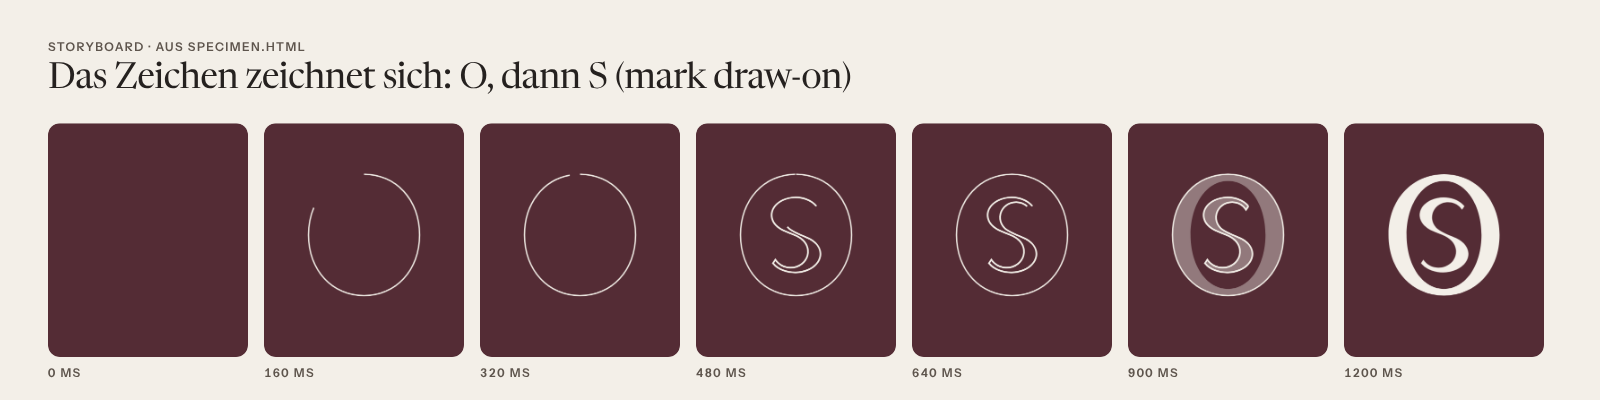
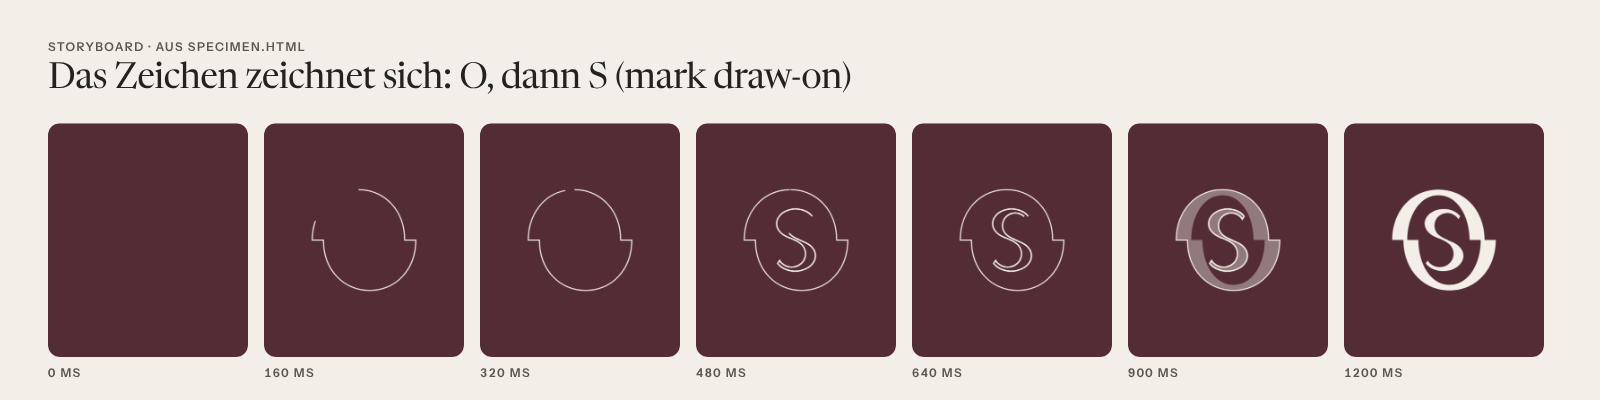
SOMA brand N8: applications rebuilt against symbol v1.2; docs + landing motion in progress (checkpoint, not deployed)
Claude-Session: https://claude.ai/code/session_01TQr1HnsQyCCMSdmT7pJpAS

diff --git a/brand/applications/motion/specimen.html b/brand/applications/motion/specimen.html
@@ -69,7 +69,7 @@ html.rm *,html.rm *::before,html.rm *::after{animation-duration:1ms!important;an
   <figure><div class="stage"><div class="arch-rise"><img src="../../photography/v2-previews/L03-philosophy.jpg" alt=""></div>
     <div class="place place-l" style="color:#5E554D">Flur · Berlin-Schöneberg · 18:40</div></div>
     <figcaption class="cap"><b>1 · Bogen-Aufgang.</b> Maske öffnet von unten (640 ms, arrive), Bogen steigt 16 px, Foto setzt sich von 1,04 auf 1 (900 ms, settle). Ortszeile folgt nach 480 ms.</figcaption></figure>
-  <figure><div class="stage s-stage"><svg class="s-draw" viewBox="-70 -110 804 1005"><path class="o-f" d="M332 0C521.24 0 664 150.23 664 362C664 573.77 521.24 724 332 724C142.76 724 0 573.77 0 362C0 150.23 142.76 0 332 0ZM108 362C108 535.88 197.6 684 332 684C466.4 684 556 535.88 556 362C556 188.12 466.4 40 332 40C197.6 40 108 188.12 108 362Z"/><path class="s-f" d="M453.78 190.69C438.07 170.96 416 157.19 392.42 148.76C348.78 133.17 298.13 134.43 255.63 153.14C222.23 167.85 191.14 196.09 186.6 234.09C185.95 239.56 185.88 245.1 186.4 250.59C189.66 284.7 214.88 311.47 243.38 327.97C286.12 352.71 340.08 359.32 375.66 395.8C379.74 399.99 383.49 404.51 386.84 409.3C390.93 415.14 394.41 421.38 397.11 427.99C400.29 435.77 402.38 444 403.25 452.37C404.42 463.49 403.44 474.8 400.4 485.56C397.63 495.37 393.17 504.69 387.35 513.06C381.88 520.92 375.23 527.94 367.75 533.9C326.93 566.4 264.62 564.91 225.76 529.92C219.1 523.92 213.3 517.05 208.48 509.48L194.07 530.82C210.67 551.39 233.84 565.7 258.56 574.51C304.97 591.07 358.85 589.82 404.13 570.15C438.54 555.2 471.01 526.82 477.01 488C477.9 482.19 478.16 476.29 477.77 470.43C475.46 436.17 451.44 408.19 423.04 391.11C410.47 383.56 396.77 377.76 383.31 371.98C360.52 362.19 337.42 353.05 315.79 340.8C306.97 335.8 298.2 330.55 290.59 323.8C274.49 309.49 263.63 289.65 260.94 268.23C259.58 257.4 260.3 246.34 263.04 235.78C265.57 226.02 269.81 216.72 275.47 208.37C281.04 200.15 287.97 192.87 295.85 186.83C332.55 158.68 386.69 160.25 421.49 190.81C428.48 196.95 434.48 204.11 439.36 212.03Z"/><path class="o-o" pathLength="1" d="M332 0C521.24 0 664 150.23 664 362C664 573.77 521.24 724 332 724C142.76 724 0 573.77 0 362C0 150.23 142.76 0 332 0Z"/><path class="s-o" pathLength="1" d="M453.78 190.69C438.07 170.96 416 157.19 392.42 148.76C348.78 133.17 298.13 134.43 255.63 153.14C222.23 167.85 191.14 196.09 186.6 234.09C185.95 239.56 185.88 245.1 186.4 250.59C189.66 284.7 214.88 311.47 243.38 327.97C286.12 352.71 340.08 359.32 375.66 395.8C379.74 399.99 383.49 404.51 386.84 409.3C390.93 415.14 394.41 421.38 397.11 427.99C400.29 435.77 402.38 444 403.25 452.37C404.42 463.49 403.44 474.8 400.4 485.56C397.63 495.37 393.17 504.69 387.35 513.06C381.88 520.92 375.23 527.94 367.75 533.9C326.93 566.4 264.62 564.91 225.76 529.92C219.1 523.92 213.3 517.05 208.48 509.48L194.07 530.82C210.67 551.39 233.84 565.7 258.56 574.51C304.97 591.07 358.85 589.82 404.13 570.15C438.54 555.2 471.01 526.82 477.01 488C477.9 482.19 478.16 476.29 477.77 470.43C475.46 436.17 451.44 408.19 423.04 391.11C410.47 383.56 396.77 377.76 383.31 371.98C360.52 362.19 337.42 353.05 315.79 340.8C306.97 335.8 298.2 330.55 290.59 323.8C274.49 309.49 263.63 289.65 260.94 268.23C259.58 257.4 260.3 246.34 263.04 235.78C265.57 226.02 269.81 216.72 275.47 208.37C281.04 200.15 287.97 192.87 295.85 186.83C332.55 158.68 386.69 160.25 421.49 190.81C428.48 196.95 434.48 204.11 439.36 212.03Z"/></svg></div>
+  <figure><div class="stage s-stage"><svg class="s-draw" viewBox="-111.60000000000002 -242.5 967.2 1209"><path class="o-f" d="M332 0C521.24 0 664 150.23 664 362L744 362C744 573.77 601.24 724 412 724C222.76 724 80 573.77 80 362L0 362C0 150.23 142.76 0 332 0ZM556 362C556 188.12 466.4 40 332 40C197.6 40 108 188.12 108 362L188 362C188 535.88 277.6 684 412 684C546.4 684 636 535.88 636 362Z"/><path class="s-f" d="M488.38 191.45C473.37 171.81 452.28 158.1 429.74 149.72C388.03 134.19 339.63 135.45 299.01 154.07C267.09 168.71 237.37 196.84 233.04 234.66C232.41 240.11 232.35 245.63 232.85 251.09C235.96 285.05 260.07 311.7 287.3 328.12C328.15 352.75 379.72 359.33 413.73 395.65C417.63 399.82 421.21 404.32 424.41 409.09C428.32 414.9 431.65 421.12 434.23 427.69C437.26 435.44 439.26 443.64 440.1 451.97C441.22 463.03 440.28 474.29 437.37 485C434.73 494.78 430.46 504.05 424.9 512.38C419.67 520.21 413.32 527.2 406.16 533.13C367.15 565.49 307.61 564.01 270.46 529.17C264.1 523.2 258.55 516.35 253.95 508.82L240.18 530.06C256.04 550.54 278.19 564.79 301.81 573.57C346.17 590.05 397.66 588.81 440.94 569.22C473.82 554.34 504.86 526.08 510.58 487.43C511.44 481.66 511.69 475.78 511.31 469.95C509.11 435.84 486.15 407.98 459.01 390.98C446.99 383.46 433.9 377.69 421.04 371.94C399.26 362.19 377.18 353.09 356.51 340.89C348.08 335.92 339.69 330.69 332.43 323.97C317.03 309.73 306.66 289.98 304.08 268.64C302.78 257.87 303.47 246.85 306.09 236.34C308.51 226.62 312.57 217.37 317.97 209.06C323.3 200.87 329.92 193.62 337.45 187.61C372.53 159.59 424.27 161.15 457.53 191.58C464.21 197.69 469.94 204.82 474.61 212.69Z"/><path class="o-o" pathLength="1" d="M332 0C521.24 0 664 150.23 664 362L744 362C744 573.77 601.24 724 412 724C222.76 724 80 573.77 80 362L0 362C0 150.23 142.76 0 332 0Z"/><path class="s-o" pathLength="1" d="M488.38 191.45C473.37 171.81 452.28 158.1 429.74 149.72C388.03 134.19 339.63 135.45 299.01 154.07C267.09 168.71 237.37 196.84 233.04 234.66C232.41 240.11 232.35 245.63 232.85 251.09C235.96 285.05 260.07 311.7 287.3 328.12C328.15 352.75 379.72 359.33 413.73 395.65C417.63 399.82 421.21 404.32 424.41 409.09C428.32 414.9 431.65 421.12 434.23 427.69C437.26 435.44 439.26 443.64 440.1 451.97C441.22 463.03 440.28 474.29 437.37 485C434.73 494.78 430.46 504.05 424.9 512.38C419.67 520.21 413.32 527.2 406.16 533.13C367.15 565.49 307.61 564.01 270.46 529.17C264.1 523.2 258.55 516.35 253.95 508.82L240.18 530.06C256.04 550.54 278.19 564.79 301.81 573.57C346.17 590.05 397.66 588.81 440.94 569.22C473.82 554.34 504.86 526.08 510.58 487.43C511.44 481.66 511.69 475.78 511.31 469.95C509.11 435.84 486.15 407.98 459.01 390.98C446.99 383.46 433.9 377.69 421.04 371.94C399.26 362.19 377.18 353.09 356.51 340.89C348.08 335.92 339.69 330.69 332.43 323.97C317.03 309.73 306.66 289.98 304.08 268.64C302.78 257.87 303.47 246.85 306.09 236.34C308.51 226.62 312.57 217.37 317.97 209.06C323.3 200.87 329.92 193.62 337.45 187.61C372.53 159.59 424.27 161.15 457.53 191.58C464.21 197.69 469.94 204.82 474.61 212.69Z"/></svg></div>
     <figcaption class="cap"><b>2 · Das Zeichen zeichnet sich.</b> Die O-Kontur zieht (640 ms), die S-Kontur folgt ab 320 ms, dann erscheinen Ring und S als Fläche (220 ms) und die Linie geht. Nur Splash und Endframes; nie als Ladeanimation, nie in Schleife.</figcaption></figure>
   <figure><div class="stage"><div class="lock"><svg style="color:#25211F;display:block;width:420px;height:auto" class="wm"  aria-hidden="true" xmlns="http://www.w3.org/2000/svg" viewBox="0 -16.8 2796 731.2" role="img" aria-labelledby="t">
   <title id="t">SOMA</title>

diff --git a/src/components/landing/motion/scenes/seal.ts b/src/components/landing/motion/scenes/seal.ts
@@ -1,0 +1,67 @@
+import { attr, clamp01, isBelow, type MotionContext, type Stop } from "../frame";
+
+/** The brand sequence runs 0–1980 ms (spec § 4.10); `done` hands back to the static final frame after it. */
+const SEQUENCE_MS = 2300;
+
+/**
+ * 10 · SOMA, „O-Schluss“ (spec § 4.10, Appendix A).
+ * - Full tier, once ready: an Oxblood arch mask opens from the bottom centre (24cqw, crown at 40 %) to a square full
+ *   bleed over `entry 0 % → entry 60 %`, on the CSS view timeline where it exists, otherwise from `--lp-scene`.
+ *   Lite and none: the hard edge.
+ * - Full and lite: the brand sequence plays once when the band is ≥ 40 % in view (full: ≥ 60 %, i.e. the mask is
+ *   complete and no arch is visible): the mark draws on (the O traces from the left springline over the crown, the S
+ *   follows, both fill), the wordmark settles, the rule grows, the tagline and the German line arrive. CSS keyed on
+ *   `data-scene-state` (idle · active · done). Only a band the reader has not reached yet starts `idle`: a deep link
+ *   lands on the final frame. The CTAs never wait.
+ */
+export function startSeal(ctx: MotionContext): Stop {
+  const scene = document.querySelector<HTMLElement>('[data-scene="seal"]');
+  if (!scene) return () => {};
+  const stops: Stop[] = [];
+  const ready = scene.hasAttribute("data-scene-ready");
+  const mask = scene.querySelector<HTMLElement>('[data-arch-mask="seal"]');
+
+  if (ready && mask && !ctx.timeline) {
+    let p = 0;
+    let written = -1;
+    stops.push(
+      ctx.whileNear(scene, {
+        read() {
+          const r = scene.getBoundingClientRect();
+          p = r.height ? clamp01((window.innerHeight - r.top) / (0.6 * r.height)) : 1;
+        },
+        write() {
+          if (Math.abs(p - written) < 0.0005) return;
+          written = p;
+          mask.style.setProperty("--lp-scene", p.toFixed(4));
+        },
+      }),
+      () => mask.style.removeProperty("--lp-scene"),
+    );
+  }
+
+  if (isBelow(scene)) {
+    attr(scene, "data-scene-state", "idle");
+    const need = ready ? 0.6 : 0.4;
+    let timer = 0;
+    const io = new IntersectionObserver(
+      (entries) => {
+        if (entries[entries.length - 1].intersectionRatio < need - 0.001) return;
+        io.disconnect();
+        attr(scene, "data-scene-state", "active");
+        timer = window.setTimeout(() => attr(scene, "data-scene-state", "done"), SEQUENCE_MS);
+      },
+      { threshold: [0.4, 0.6] },
+    );
+    io.observe(scene);
+    stops.push(() => {
+      io.disconnect();
+      window.clearTimeout(timer);
+      scene.removeAttribute("data-scene-state");
+    });
+  }
+
+  return () => {
+    for (const s of stops) s();
+  };
+}

diff --git a/src/components/landing/motion/runtime.ts b/src/components/landing/motion/runtime.ts
@@ -1,0 +1,39 @@
+import { createContext, isBelow, type Stop } from "./frame";
+import { startReveals } from "./reveal";
+import { startDoorway } from "./scenes/doorway";
+import { startHero } from "./scenes/hero";
+import { startScreens } from "./scenes/screens";
+import { startStage } from "./scenes/stage";
+import { startTone } from "./scenes/tone";
+import { startWalkthrough } from "./scenes/walkthrough";
+import { startBand } from "./scenes/band";
+import { startSeal } from "./scenes/seal";
+import type { MotionTier } from "./tier";
+
+/** Scenes whose full-tier layout or mask changes the page: they upgrade only while still below the viewport. */
+const UPGRADABLE = '[data-scene="doorway"], [data-scene="walkthrough"], [data-scene="dusk"], [data-scene="stage"], [data-scene="dawn"], [data-scene="seal"]';
+
+/**
+ * The motion runtime (spec § 10.4: ≤ 12 KB gz, imported after idle or the first scroll, full and lite tiers only).
+ * 1. Upgrade (spec § 8.1, full tier only): every scene in UPGRADABLE whose top is still below the viewport gets
+ *    `data-scene-ready`, which switches on its pinned layout or scroll-linked mask. A scene already in or above the
+ *    viewport keeps its lite layout for this page view, so the upgrade never shifts what the reader sees.
+ * 2. Reveals and scenes start; each returns its teardown. All reads happen before all writes.
+ */
+export function startRuntime(tier: MotionTier): Stop {
+  performance.mark("lp-motion:start");
+  const ctx = createContext(tier);
+  const vh = window.innerHeight;
+  const ready = tier === "full" ? Array.from(document.querySelectorAll<HTMLElement>(UPGRADABLE)).filter((el) => isBelow(el, vh)) : [];
+  for (const el of ready) el.setAttribute("data-scene-ready", "");
+
+  for (const start of [startReveals, startHero, startDoorway, startWalkthrough, startTone, startStage, startScreens, startBand, startSeal]) {
+    ctx.onStop(start(ctx));
+  }
+  performance.measure("lp-motion:init", "lp-motion:start");
+
+  return () => {
+    ctx.stop();
+    for (const el of ready) el.removeAttribute("data-scene-ready");
+  };
+}

diff --git a/src/components/landing/motion/scenes/stage.ts b/src/components/landing/motion/scenes/stage.ts
@@ -27,9 +27,11 @@ export function startStage(ctx: MotionContext): Stop {
       const run = r.height - stage.offsetHeight;
       const p = run > 0 ? clamp01(-r.top / run) : 0;
       state = r.top > 0 ? "idle" : r.bottom > stage.offsetHeight + 1 ? "active" : "done";
-      const raw = Math.min(STEPS, Math.floor(p * STEPS) + 1);
-      if (raw > step && p >= (raw - 1) / STEPS + HYSTERESIS) step = raw;
-      else if (raw < step && p <= step - 1 - (STEPS * HYSTERESIS) / STEPS && p < (step - 1) / STEPS - HYSTERESIS) step = raw;
+      // the step p has passed by at least the hysteresis going down, and going up
+      const ahead = Math.min(STEPS, Math.floor((p - HYSTERESIS) * STEPS) + 1);
+      const behind = Math.min(STEPS, Math.floor((p + HYSTERESIS) * STEPS) + 1);
+      if (ahead > step) step = ahead;
+      else if (behind < step) step = Math.max(1, behind);
     },
     write() {
       attr(scene, "data-step", String(step));

diff --git a/brand/LOGO_USAGE.md b/brand/LOGO_USAGE.md
@@ -1,7 +1,11 @@
 # SOMA: Logo usage
 
-*Identity Designer · 1 Nov 2026 · v1.2 (Brand Audit 1: S im O, honest exploration record, favicon rim. Brand Audit 2: the Versatz, the seal for small iOS sizes)*
+*Identity Designer · 1 Nov 2026 · v1.2.1 (Brand Audit 1: S im O, honest exploration record, favicon rim. Brand Audit 2: the Versatz, the seal for small iOS sizes. Brand Audit 3: the seal's badge-genre figure corrected, the people-test protocol extended; documentation only)*
 *Masters: `brand/assets/logo/final/*.svg` (authoritative). Raster exports: `brand/assets/logo/final/png/`. Build: `node brand/tools/build-logo.mjs`.*
+
+> **Pending client actions** (open after Brand Audit 3). The human tests decide whether Originality reaches 8. The trademark search blocks a public launch.
+> 1. **Human tests O1b, O4a/O4b and O7** with at least 8 people outside the team. The protocol and pass/fail rule are in § 2.1, and the results go to `brand/audit/symbol-recall-test.md`. Until they pass, the mark's originality is argued, not proven.
+> 2. **Trademark search (O6, with L4)** for the **word mark** "SOMA" *and* the **figurative mark** (the S im O with the Versatz). Use Vienna classes 27.5 (letters) and 26.1 / 26.3 (ovals), and Nice classes 35, 44 and 9/42, in DE and the EU. This is done by the client's lawyer, and the decision is logged in `PLAN.md`. "SOMA" is a working title until then.
 
 The SOMA logo system has four parts: the **wordmark** (primary), the **symbol** (the S im O: the wordmark's S inside its O, whose halves are offset at the waist: the Versatz), the **secondary lockups** and the **app icon**. Every shape is a hand-built path. No font was used as raw material for the letterforms (§ 1.4).
 
@@ -96,7 +100,7 @@ Every master has a `currentColor` version (no suffix) for code, plus five fixed 
 - The O is cut at its waist, and its two halves slide against each other by **one hairline each**: the upper half to the left, the lower half to the right.
 - These are the shoulders against the hips of *contrapposto*, the same gesture as the S the O holds, whose upper bowl leans left and lower bowl right.
 - The result is two small shoulders at the waist, one on each side. They are calm, architectural and exact: an S typed into an oval cannot have them.
-- In the seal cut, the same Versatz gives the silhouette its shape, so at 16 px it is no longer "a white S on a dark dot".
+- In the seal cut, the same Versatz gives the silhouette two notches at the waist. Against its own genre, filled S badges, this moves the seal away from the genre but not out of it (see the correction below). At 16–32 px the seal is still close to "a white S on a dark oval, with two notches".
 
 **Construction** (`brand/tools/final.mjs` → `MARK`, `versatz()`, `symbolMark()`):
 - **O:** the wordmark's O, outer contour rx 332, ry 362 (tensions 0.57 / 0.585).
@@ -120,7 +124,20 @@ Every master has a `currentColor` version (no suffix) for code, plus five fixed 
 | Control: the S (v1.0) | 0.52 | 0.26 | 0.32 |
 | S im O (v1.1) | 0.24 | **0.52** ✗ | **0.83** ✗ |
 | **S im O with Versatz (v1.2), line cut** | **0.19** ✓ | **0.31** ✓ | **0.44** ✓ |
-| **Seal with Versatz (v1.2), < 32 px** | **0.26** ✓ | **0.24** ✓ | **0.39** ✓ |
+| Seal with Versatz (v1.2), < 32 px | 0.26 ✓ | 0.24 *(against rings: the wrong genre for a solid, see below)* | 0.39 ✓ |
+
+**Correction: the seal against its own genre** (Brand Audit 3, N10). The 0.24 above compares the *filled* seal with *rings*, so it overstates how distinct the seal is. A solid oval is the right comparison: a filled even oval with a white serif S. The auditor measured it in `brand/audit/scripts/audit-3/s-in-o-compare3.cjs`, with the results in `genre-iou-a3.json`; the figures are fill IoU, with the aspect-preserving value in brackets.
+
+| Mark | Filled oval + white Bodoni Moda S | Filled oval + white Gloock S |
+|---|---:|---:|
+| Seal v1.1 (no Versatz) | 0.85 (0.85) | 0.88 (0.88) |
+| **Seal v1.2 (Versatz)** | **0.71** (0.72) | **0.73** (0.75) |
+| Line cut v1.2, for comparison | 0.41 (0.38) | 0.39 (0.38) |
+| *Baseline: one generic badge against another* | *0.92* | |
+
+- **Both statements hold.** Against rings, the seal is far from the generic monogram (0.21–0.26). Against filled badges, which is how it is seen at 16–32 px (favicon, tabs, Admin tile, iOS 20/29), it sits at **0.71–0.75**: below the badge-to-badge baseline of 0.92, but inside the genre.
+- No IoU target is claimed for the seal against badges. Whether its two notches and SOMA's S are enough is a question for people: the badge line-up **O4b** and the association question **O7** below.
+- `concepts/symbol-studies-3.png` / `.json` predate this correction and show the ring figure only. This round is documentation only, so they were not rebuilt.
 
 **Rejected in this round:**
 - **Vertical Versatz** (the left half up, the right half down; the literal construction of the S): the O falls apart into two brackets, and at 24 px it reads as a swirl.
@@ -132,15 +149,29 @@ Every master has a `currentColor` version (no suffix) for code, plus five fixed 
 - The shoulders become a 1 px notch: present, never noisy.
 - Below 32 px, the line cut is not used; the small iOS sizes (20 and 29 px) use the seal (Brand Audit 2, N5).
 
-**Human tests: pending client tests.** Neither test can be run by a script. Run both with the same 8+ people (unfamiliar with SOMA, mixed age 25–55) and record raw answers and photos of drawings in `brand/audit/symbol-recall-test.md`.
-- **O1b, 5-second recall:**
-  - Show the iOS app icon (`icons/ios/AppIcon-1024.png`, shown at 120 px) for 5 seconds. Then ask: "Describe or draw what you saw."
-  - **Pass:** at least 6 of 8 recall a feature beyond "an S" (the oval or O, the step or shift, "SO").
-- **O4, genre line-up:**
-  - Generate six Oxblood tiles: the SOMA icon plus five generic "serif S in an oval" icons (Bodoni Moda, Gloock, Newsreader, Playfair Display, Libre Bodoni in an even Bone ring; the same layout as `genre-iou.mjs`). Show the six in random order for 5 seconds.
-  - After one minute of distraction, show them again in a new order and ask: "Which one did you see first / which is SOMA?"
-  - **Pass:** at least 6 of 8 pick SOMA.
-- **If either test fails:** increase the Versatz to 1.5 hairlines (60) and test again. The generic IoU then drops to about 0.29; keep the S's clearance ≥ 0.3 stem.
+**Human tests O1b, O4a, O4b and O7: pending client tests.** No script can run them.
+
+*Setup:*
+- **Who:** at least **8 people outside the team.** Nobody from SOMA, the agency or this project, and nobody who has seen the mark. Mix ages 25–55 and genders. Colleagues or friends of the client are fine; a paid panel needs client approval.
+- **How:** one unmoderated session of about 10 minutes per person, on a phone, in the order below.
+- **Records:** write raw answers, picks and photos of drawings, unedited, to `brand/audit/symbol-recall-test.md`.
+- **Tiles:** generate the line-up tiles with the shapes in `brand/tools/lib/genre-iou.mjs` and the auditor's `s-in-o-compare3.cjs` (the filled-badge references), in the same colours and size as the SOMA tile. Show the tiles in random order.
+
+| Test | Procedure | Pass (8 people; with more, the same share) |
+|---|---|---|
+| **O1b**, 5-second recall | Show the iOS app icon (`icons/ios/AppIcon-1024.png`, displayed at 120 px) for 5 s. Then ask: "Describe or draw what you saw." | **≥ 6 / 8** recall a feature beyond "an S": the oval or O, the step, the shoulders or the shift, or "SO". |
+| **O7**, unwanted associations (part 1) | Directly after O1b, before any line-up, ask: "Did anything look wrong, or remind you of something?" Ask no leading follow-up. | **≤ 2 / 8** answer with any of: a *broken, misprinted or misaligned O*; *refresh, sync, reload, arrows or recycling*; a *dollar sign*. Record every other association as well (yin-yang, a coin, a brand name …). |
+| **O4a**, line-up against rings (line cut) | Six Oxblood tiles at 120 px: the SOMA app icon and five generic "serif S in an even Bone ring" icons (Bodoni Moda, Gloock, Newsreader, Playfair Display, Libre Bodoni). Show them for 5 s, then give 1 minute of distraction. Show them again in a new order and ask: "Which one did you see first? Which one is SOMA?" | **≥ 6 / 8** pick SOMA. |
+| **O4b**, line-up against filled badges (seal) | The same procedure, at the seal's real size: six tiles at **32 px** (and again at 16 px in a mock browser tab, light and dark). The tiles are the SOMA seal (Oxblood with a Bone S) and five **filled even ovals in the same Oxblood with a Bone serif S** (the same five fonts, with the S height matched to the seal's 444 / 724). | **≥ 6 / 8** pick SOMA at 32 px. At 16 px the result is recorded, but it does not gate the test. |
+| **O7** (part 2) | After O4b, show the SOMA seal alone at 32 px and ask the O7 question again. | **≤ 2 / 8**, as in part 1. |
+
+*Decision:*
+- **Pass:** O1b, O4a, O4b and O7 (both parts) each pass with the same people. The mark is then final; the auditor has committed to Originality 8 on that result (Brand Audit 3).
+- **Fail:** if any one test fails, apply the **fallback**:
+  1. Increase the Versatz to **1.5 hairlines (60 units per half)**. In `final.mjs`, set `MARK.shift = 60`; keep the S's clearance at ≥ 0.3 stem. The generic ring IoU then drops to about 0.29.
+  2. Rebuild everything: `build-logo.mjs final`, `build-icons.mjs`, `build-splash.mjs`, `build-symbol-studies.mjs`, `build-kit-data.mjs`. Sync `logo.tsx`, `public/brand`, `src/app` and `public/splash`.
+  3. Re-run the failed tests with **8 new people**.
+- **Exception:** if O7 fails mainly on *sync, refresh or arrows*, a larger offset would make that worse. Do not apply the fallback; return the raw answers to the Identity Designer instead.
 
 ---
 

diff --git a/brand/applications/README.md b/brand/applications/README.md
@@ -1,13 +1,13 @@
 # SOMA brand applications
 
-*Digital Art Director · phase B2 · 1 Nov 2026. Every artwork is generated from code (`_src/*.mjs`, HTML/SVG → PNG/PDF with Playwright and the final logo SVGs). To change one, edit the source and rebuild: `node brand/applications/_src/build-all.mjs`.*
+*Digital Art Director · phase B2 · 1 Nov 2026 · rebuilt against symbol v1.2 (every symbol occurrence checked). Every artwork is generated from code (`_src/*.mjs`, HTML/SVG → PNG/PDF with Playwright and the final logo SVGs). To change one, edit the source and rebuild: `node brand/applications/_src/build-all.mjs`.*
 *All photographs are **AI-generated development assets** and are labelled as such. All names, prices, codes and numbers are **demo data** (BRAND_VOICE examples), never real bookings.*
 
 ![Overview](overview.jpg)
 
 | # | Application | Files | Preview |
 |---|---|---|---|
-| 1 | **App icons** (new mark: the S in the O): iOS and Android home screens, light and dark (themed icons), App Store 1024 and Play 512; AI wallpapers labelled | `app-icons/app-icons-board.png`, `ios-home-light.png`, `ios-home-dark.png`, `android-home-light.png`, `android-home-themed-dark.png` · masters in `brand/assets/icons/` | ![](_thumbs/app-icons.jpg) |
+| 1 | **App icons** (symbol v1.2: the S in the O with the Versatz, rebuilt from `brand/assets/icons`): iOS and Android home screens, light and dark (themed icons), App Store 1024 and Play 512; AI wallpapers labelled | `app-icons/app-icons-board.png`, `ios-home-light.png`, `ios-home-dark.png`, `android-home-light.png`, `android-home-themed-dark.png` · masters in `brand/assets/icons/` | ![](_thumbs/app-icons.jpg) |
 | 2 | **Social**: avatar, 9 Instagram posts (1080×1350; post 03 = the signature pair), 3 stories (1080×1920), LinkedIn banner (1584×396), grid preview; AI labels at 22 px | `social/avatar-1080.png`, `social/instagram/post-01…09.png` (`post-03-evening.png` replaces `post-03-arrival.png`), `social/stories/story-01…03.png`, `social/linkedin-banner-1584x396.png`, `social/instagram-grid-preview.png`, `social/captions.md` | ![](_thumbs/social-grid.jpg) |
 | 3 | **Digital advertising**: concepts A „Schon zu Hause“, B „Zimmer 614“, C „Dein Kalender“ × 1080×1080, 1080×1920, 1200×628, 300×250, 728×90. **Every format carries the signature** (offset arch pair + Ortszeile, guidelines § 10.2); the wordmark sits only on calm Bone | `ads/<concept>/<concept>-<size>.png` (15 files) + `ads/<concept>/board.png` | ![](_thumbs/ads-b.jpg) |
 | 4 | **Booking confirmation**: mobile 390×844 comp of `/buchung/[id]` (Start-Code, place, time, price, free-cancellation deadline) | `booking-confirmation/booking-confirmed-390x844@3x.png`, `booking-confirmed-full@2x.png`, `board.png` | ![](_thumbs/booking.jpg) |
@@ -16,7 +16,7 @@
 | 7 | **SOMA Pro welcome kit**: A4 PDF, 7 pages (welcome, how SOMA works for you, verification checklist, Start-Code, safety and zero tolerance, payouts, back cover). **Tagged PDF** (`Tagged: yes`, outline from h1/h2, `lang="de"`), static font instances (no Type 3), no placeholders, no unverified payout timing | `onboarding/soma-pro-willkommensmappe-a4.pdf` · `onboarding/pages/page-01…07.png` | ![](_thumbs/onboarding.jpg) |
 | 8 | **Customer app and SOMA Pro showcase**: screenshots of the app in the new brand (demo environment, captured 1 Nov 2026, v2 imagery, product AI labels visible) composed into boards labelled „Bilder KI-generiert · Demo-Daten“, plus the app-on-table environment | `showcase/customer-app.png`, `showcase/pro-dashboard.png`, `showcase/app-on-table.png` · raw captures `showcase/live/*.png` (`_src/capture-live.cjs`) | ![](_thumbs/showcase-customer.jpg) |
 | 9 | **Landing page input** (not built here): key-visual directions, image per section, crop rules | `LANDING_ART_DIRECTION_INPUT.md` | ![](_thumbs/app-on-table.jpg) |
-| — | **Motion identity**: principles, tokens, patterns, reduced motion, the no-count-up rule for money and ratings; specimen (mark draw-on with the new S-in-O) and storyboards | `motion/MOTION.md`, `motion/specimen.html`, `motion/storyboard-1…3.png` | ![](_thumbs/motion-2.jpg) |
+| — | **Motion identity**: principles, tokens, patterns, reduced motion, the no-count-up rule for money and ratings; specimen (draw-on traces the v1.2 O with the Versatz, then the S) and storyboards | `motion/MOTION.md`, `motion/specimen.html`, `motion/storyboard-1…3.png` | ![](_thumbs/motion-2.jpg) |
 
 ## Rules every application follows
 - **One Oxblood moment per screen**: the app icon, the primary CTA, the brand band or the gift-card front. The booking confirmation and the Pro request card use Espresso, because nothing on them is the single primary action.

diff --git a/brand/BRAND_GUIDELINES.md b/brand/BRAND_GUIDELINES.md
@@ -1,7 +1,16 @@
 # SOMA: Brand guidelines
 
-*v1.2 · 1 Nov 2026 (after Brand Audit 2). Identity sections by the Identity Designer. The sections **Photography**, **Motion** and **Applications** belong to the Digital Art Director.*
+*v1.2.1 · 1 Nov 2026 (after Brand Audit 3). Identity sections by the Identity Designer. The sections **Photography**, **Motion** and **Applications** belong to the Digital Art Director.*
 
+> **Pending client actions** (open after Brand Audit 3):
+> 1. **Human tests O1b, O4a/O4b and O7** (recall, line-ups against rings and against filled badges, unwanted associations). They need at least 8 people outside the team; the protocol, the pass/fail rule and the fallback are in `LOGO_USAGE.md` § 2.1. They decide whether Originality reaches 8.
+> 2. **Trademark search (O6, with L4)** for the word mark "SOMA" and the figurative mark (S im O with the Versatz). Vienna classes 27.5 and 26.1 / 26.3; Nice classes 35, 44 and 9/42; DE and EU. The client's lawyer does it, and the decision is logged in `PLAN.md`. It blocks a public launch.
+
+> **v1.2.1 (Brand Audit 3, documentation only):**
+> - The seal's genre figure is corrected (N10): 0.24 against rings, but **0.71–0.75 against filled S badges** (§ 2).
+> - The people-test protocol now has a badge line-up and an association question, with pass/fail rules (N9).
+> - `assets/splash/SPLASH.md` separates what is shipped from the PWA intro concept (N11).
+>
 > **What changed in v1.2 (Brand Audit 2):**
 > - **The symbol has its ownable detail: the Versatz** (O5). The O's upper half sits one hairline left, its lower half one hairline right, like shoulders against hips. A typed "S in an oval" cannot have it. The line cut, the seal, every app icon, the favicon and the launch images are rebuilt (§ 2, `LOGO_USAGE.md` § 2.1).
 > - The iOS 20 and 29 px icons use the seal cut (N5).
@@ -76,9 +85,10 @@ The complete rules are in **`LOGO_USAGE.md`**. In short:
     |---|---:|---:|---:|
     | v1.1 S im O | 0.24 | 0.52 | 0.83 |
     | **v1.2 line cut** | **0.19** | **0.31** | **0.44** |
-    | **v1.2 seal** | **0.26** | **0.24** | **0.39** |
+    | v1.2 seal | 0.26 | 0.24 *(against rings: the wrong genre for a solid)* | 0.39 |
 
-  - The human tests O1b (5-second recall) and O4 (genre line-up) are **pending client tests**; the protocol is in `LOGO_USAGE.md` § 2.1.
+  - **The seal against its own genre** (Brand Audit 3, N10): against filled ovals with a white serif S, the v1.2 seal overlaps **0.71–0.75**. The v1.1 seal scored 0.85–0.88, and two generic badges score 0.92 against each other. The Versatz moves the seal away from the badge genre but not out of it. At 16–32 px, SOMA is still close to "a white S on a dark oval, with two notches". No target is claimed; people decide (O4b, O7).
+  - The human tests O1b (recall), O4a/O4b (line-ups against rings and against filled badges) and O7 (unwanted associations) are **pending client tests** (see the box above and `LOGO_USAGE.md` § 2.1).
 - **Secondary lockups:** with the descriptor, with the tagline, and stacked (symbol over wordmark).
 - **App icon:** the Bone S im O on an Oxblood tile. It is the brand's most visible Oxblood moment. Tiles under 32 px (iOS 20 and 29 px) carry the seal.
 - **Favicon:** the seal in Oxblood with a Bone S and a 1 px Bone rim that follows the Versatz outline. The rim gives 14.0:1 against a dark tab bar (`#202124`) and disappears into light ones.
